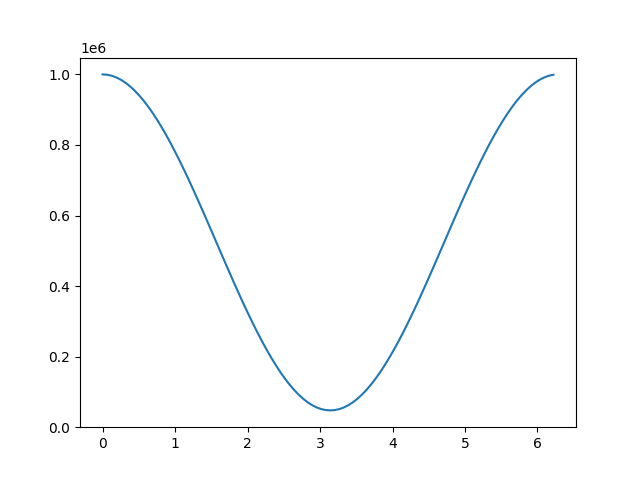
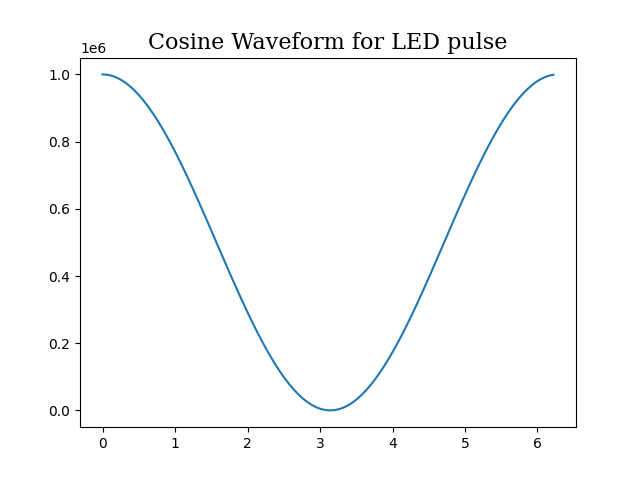
merging daily changes (#1)
* added empty requirements.txt

* added .vscode settings.json to gitignore

* added pigpiod install steps

* added waveform refs and vertex parameter to generator

diff --git a/raspblink/waveform.py b/raspblink/waveform.py
@@ -1,5 +1,9 @@
 __all__ = ["generate_waveform"]
 
+# References:
+# https://makersportal.com/blog/2020/3/27/simple-breathing-led-in-arduino#:~:text=A%20breathing%20LED%20is%20a,of%20functionality%20to%20some%20degree.&text=Each%20function%20uses%20a%20loop,of%20a%20'breathing'%20LED.
+# https://realpython.com/fast-flexible-pandas/
+
 import logging
 import time
 
@@ -13,21 +17,27 @@ import numpy as np
 
 t1 = time.time()
 logger.debug(f"Imported numpy. Elapsed: {(t1 - start) * 1000:+.3f}ms")
-import numpy.typing as npt
 
 t2 = time.time()
 logger.debug(f"Imported typing. Elapsed: {(t2 - t1) * 1000:+.3f}ms")
 
 
-def generate_waveform(plot: bool = False) -> np.ndarray:
-    time_vals = np.arange(0, 2 * np.pi, np.pi / 50)  # 100 values
-    waveform = np.cos(time_vals) + 1.0
-    amp_values = 1e6 * waveform / np.max(waveform)
-    amp_values = amp_values.astype(int)  # int are smaller
+def generate_waveform(vertex: float = 0.3, plot: bool = False) -> np.ndarray:
+    x = np.arange(0, 2 * np.pi, np.pi / 50)  # 100 values
+    waveform = np.cos(x) + (1.0 + vertex)
+    y = 1e6 * waveform / np.max(waveform)
+    y = y.astype(int)  # int are smaller
     if plot:
         import matplotlib.pyplot as plt
 
+        font = {
+            "family": "serif",
+            "color": "black",
+            "weight": "normal",
+            "size": 16,
+        }
         fig = plt.figure()
-        plt.plot(time_vals, amp_values, "-")
+        plt.title("Cosine Waveform for LED pulse", fontdict=font)
+        plt.plot(x, y, "-")
         fig.savefig("waveform.png")
-    return amp_values
+    return y
